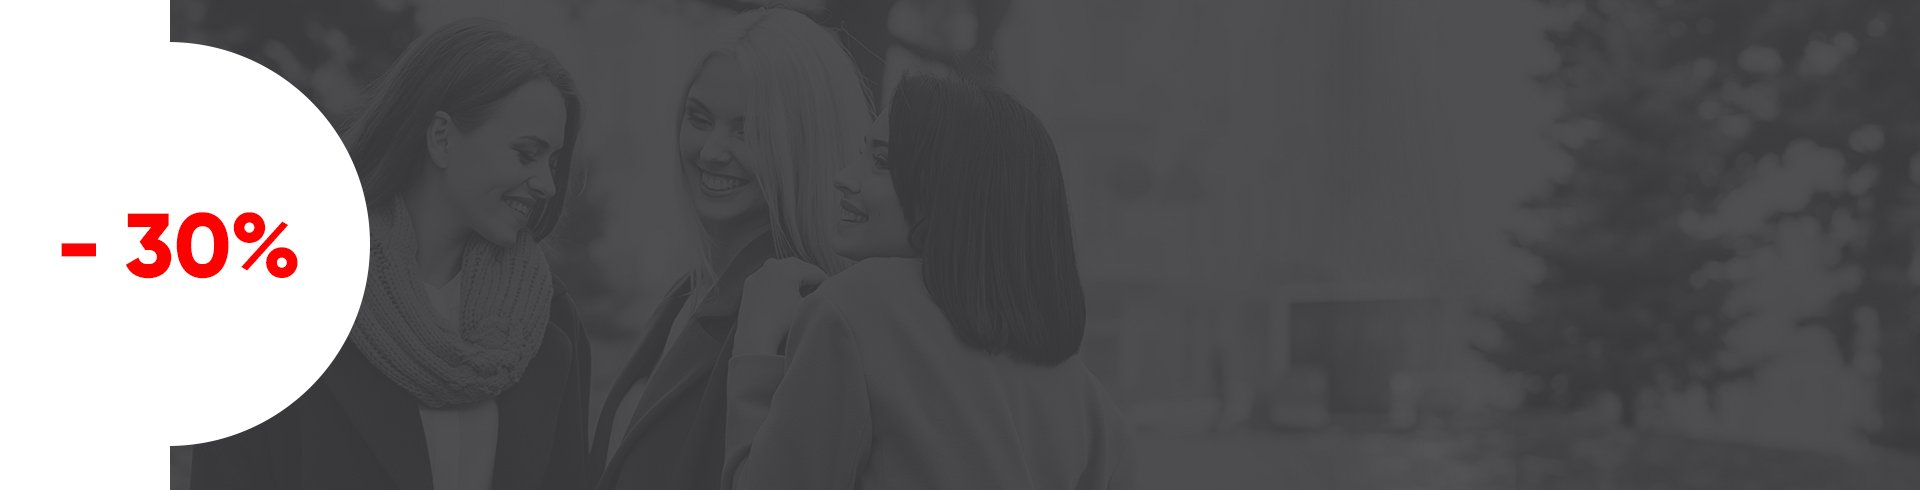
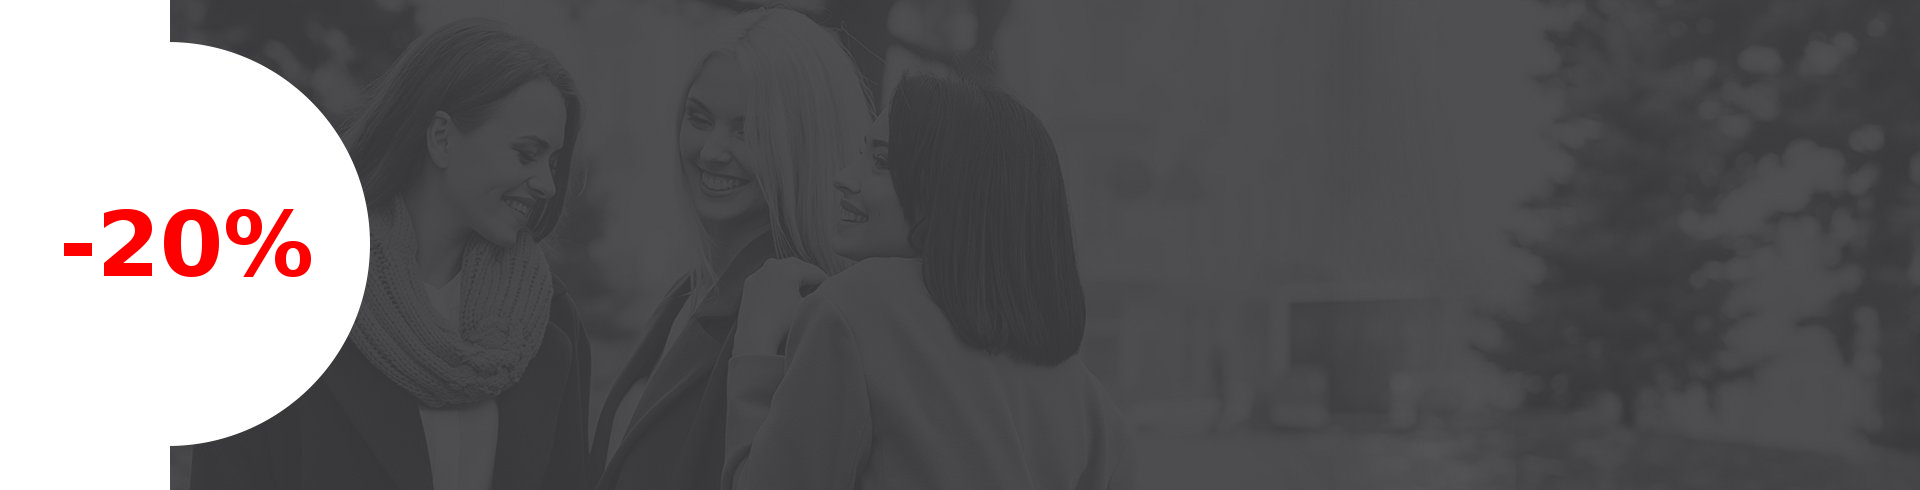
upd

Changed region(s): [[0.0312, 0.4286, 0.1875, 0.5816]]

diff --git a/src/components/header.vue b/src/components/header.vue
@@ -4,8 +4,8 @@
       <v-container fluid class="header">
         <v-layout class="LC" align-center>
           <v-flex sm10 lg5>
-            <h3>Успейте купить стильное весеннее пальто со скидкой до 20%</h3>
-            <p class="red--text offer">Акция действует до 08.03.2018</p>
+            <h3 class="shadow">Успейте купить стильное весеннее пальто со скидкой до 20%</h3>
+            <p class="offer">Акция действует до 08.03.2018</p>
           </v-flex>
         </v-layout>
         <div class="mouse"></div>
@@ -13,45 +13,40 @@
         <div class="mTwo"></div>
         <div class="mThree"></div>
       </v-container>
-      
-    <v-dialog v-model="drawer" max-width="350">
-      <app-catalog @closeForm="closeForm"></app-catalog>
-    </v-dialog>
     </div>
   </header>
 </template>
 
 <script>
-import catalog from './modals/getCatalog'
-  export default {
-    components: {
-      'app-catalog': catalog
-    },
-    data () {
-      return {
-        drawer: false,
-      }
-    },
-    methods: {
-      closeForm () {
-        this.drawer = false;
-      },
+import catalog from './modals/getCatalog';
+
+export default {
+  components: {
+    'app-catalog': catalog
+  },
+  data () {
+    return {
+      drawer: false,
     }
+  },
+  methods: {
+    closeForm () {
+      this.drawer = false;
+    },
   }
+}
 </script>
 
 <style scoped lang="stylus">
 .header
-  // background url('/static/img/header/1.png')
   background-image url('../assets/img/header/1.png')
   background-repeat no-repeat
   background-position-x right
   min-height 1000px
   position relative
-  h1
+  h3
     font-size responsive 3rem 4rem
   .mouse
-    // background-image url('/static/img/mouse.png')
     background-image url('../assets/img/mouse.png')
     position absolute
     left 17.3%
@@ -61,7 +56,6 @@ import catalog from './modals/getCatalog'
   .mOne
   .mTwo
   .mThree
-    // background-image url('/static/img/right.svg')
     background-image url('../assets/img/right.svg')
     width 20px
     height 20px
@@ -75,7 +69,7 @@ import catalog from './modals/getCatalog'
   .mThree
     bottom 13%
     opacity .3
-  h1
+  h3
     font-size responsive 3rem 4rem
     margin 1rem 0
   .LC
@@ -88,7 +82,7 @@ import catalog from './modals/getCatalog'
 
 @media (max-width: 1440px)
   .header
-    h1
+    h3
       font-size responsive 2.5rem 2.6rem
       text-align center
     p
@@ -100,13 +94,11 @@ import catalog from './modals/getCatalog'
 
 @media (max-width 1350px)
   .header
-    // background-image url('/static/img/header/2.png')
     background-image url('../assets/img/header/2.png')
     min-height 790px
 
 @media (max-width: 1280px)
   .header
-    // background-image url('/static/img/header/3.png')
     background-image url('../assets/img/header/3.png')
     color #fff
     background-size cover
@@ -116,14 +108,13 @@ import catalog from './modals/getCatalog'
 
 @media (max-width 600px)
   .header
-    // background-image url('/static/img/header/4.png')
     background-image url('../assets/img/header/4.png')
     background-size cover
     background-position center center
     min-height 630px
     .LC
       min-height 600px
-    h1
+    h3
       font-size 2rem
     .mouse
     .mOne

diff --git a/src/components/discount.vue b/src/components/discount.vue
@@ -4,9 +4,9 @@
       <v-layout class="LC" justify-end align-center>
           <div class="stockWrapper">
             <h3>Успей купить !</h3>
-            <p>Акция до 08.03 скидка 20% на всю верхнюю одежду от inDresser</p>
+            <p>Акция до 08.03 скидка 20% <br> на всю верхнюю одежду от inDresser</p>
             <v-layout justify-space-around class="buttonWrapper mt-4">
-              <div class="myButton Red" v-scroll-to="'.coats'">Перейти к покупкам</div>
+              <div class="myButton Red mx-2" v-scroll-to="'.coats'">Перейти к покупкам</div>
               <a href="https://indresser.com" target="_blank" class="myButton White">Перейти на сайт</a>
             </v-layout>
           </div>
@@ -15,39 +15,12 @@
   </div>
 </template>
 
-<script>
-import thanks from './modals/thanks';
-export default {
-  components: {
-    'app-thanks': thanks,
-  },
-  data() {
-    return {
-      userData: {
-        name: '',
-        phone: '',
-        email: ''
-      },
-      drawer: false,
-      isDisabled: true
-    };
-  },
-  methods: {
-    getCatalog () {
-      this.drawer = true;
-    },
-    closeForm () {
-      this.drawer = false;
-    },
-  }
-};
-</script>
 
 <style scoped lang="stylus">
 .discountForm
   background-image: url('../assets/img/formbg.jpg')
   .LC
-    min-height 450px
+    min-height 480px
     color #fff
 .stockWrapper
   h3

diff --git a/src/components/coats.vue b/src/components/coats.vue
@@ -2,11 +2,11 @@
   <div class="wrapper">
     <v-container fluid class="coat">
       <v-layout class="localWrapper">
-        <h2>Выбери свой Look</h2>
+        <h2 class="shadow">Выбери свой Look</h2>
       </v-layout>
       <v-layout class="localWrapper">
         <v-flex sm12 sm10 md8 lg6>
-          <p class="text-xs-center">На первом месте мы ставим качество и удобство. Женщина должна себя чувствовать в нем уверенно и комфортно, совершеннго не задумываясь все время о том, во что она одета...</p>
+          <p class="text-xs-center shadow">На первом месте мы ставим качество и удобство. Женщина должна себя чувствовать в нем уверенно и комфортно, совершеннго не задумываясь все время о том, во что она одета...</p>
         </v-flex>
       </v-layout>
     </v-container>
@@ -15,7 +15,6 @@
 
 <style scoped lang="stylus">
 .coat
-  // background-image url('/static/img/coatbg.jpg')
   background-image url('../assets/img/coatbg.jpg')
   min-height 490px
   .localWrapper

diff --git a/src/main.js b/src/main.js
@@ -1,4 +1,6 @@
 import Vue from 'vue';
+import Scroll from 'vue-scrollto';
+import axios from 'axios';
 import {
   Vuetify,
   VApp,
@@ -10,12 +12,11 @@ import {
   VTextField,
   VDialog,
   VSelect,
-  transitions
+  transitions,
 } from 'vuetify';
 import './stylus/main.styl';
 import '../static/css/font-awesome.min.css';
-import Scroll from 'vue-scrollto';
-import axios from 'axios';
+import './registerServiceWorker.js';
 
 import App from './App';
 
@@ -30,15 +31,15 @@ Vue.use(Vuetify, {
     VTextField,
     VDialog,
     VSelect,
-    transitions
-  }
+    transitions,
+  },
 });
 Vue.use(Scroll, {
   container: 'body',
   duration: 500,
   offset: -70,
   cancelable: true,
-  easing: 'ease'
+  easing: 'ease',
 });
 Vue.prototype.$http = axios;
 
@@ -47,5 +48,5 @@ Vue.config.productionTip = false;
 /* eslint-disable no-new */
 new Vue({
   el: '#app',
-  render: h => h(App)
+  render: h => h(App),
 });

diff --git a/index.html b/index.html
@@ -12,7 +12,7 @@
   <body>
     <div id="app"></div>
      <!-- built files will be auto injected  -->
-    <script async src="https://www.googletagmanager.com/gtag/js?id=UA-108801335-4"></script>
+    <!-- <script async src="https://www.googletagmanager.com/gtag/js?id=UA-108801335-4"></script>
     <script>
       window.dataLayer = window.dataLayer || [];
       function gtag() { dataLayer.push(arguments); }
@@ -25,7 +25,7 @@
           gcw.src = '//widgets.binotel.com/getcall/widgets/' + widgetHash + '.js';
           var sn = d.getElementsByTagName(s)[0]; sn.parentNode.insertBefore(gcw, sn);
         })(document, window, 'script');
-      </script> 
-      <script async src="/static/scripts/smtp.min.js"></script>
+      </script>  -->
+      <script defer async src="/static/scripts/smtp.min.js"></script>
   </body>
 </html>

diff --git a/src/registerServiceWorker.js b/src/registerServiceWorker.js
@@ -1,0 +1,26 @@
+/* tslint:disable:no-console */
+
+import { register } from 'register-service-worker';
+
+if (process.env.NODE_ENV === 'production') {
+  register(`${process.env.BASE_URL}service-worker.js`, {
+    ready() {
+      console.log(
+        'App is being served from cache by a service worker.\n' +
+          'For more details, visit https://goo.gl/AFskqB',
+      );
+    },
+    cached() {
+      console.log('Content has been cached for offline use.');
+    },
+    updated() {
+      console.log('New content is available; please refresh.');
+    },
+    offline() {
+      console.log('No internet connection found. App is running in offline mode.');
+    },
+    error(error) {
+      console.error('Error during service worker registration:', error);
+    },
+  });
+}

diff --git a/src/components/modals/stock.vue b/src/components/modals/stock.vue
@@ -1,7 +1,7 @@
 <template>
   <v-container fluid class="sContainer">
     <h2>Успей купить</h2>
-    <p>Акция до 30.11 скидка 30% на всю верхнюю одежду от inDresser</p>
+    <p>Акция до 08.03 скидка 20% на всю верхнюю одежду от inDresser</p>
     <div class="close" @click="close"></div>
     <div class="myButton mt-5" v-scroll-to="'.coats'" @click="close">Перейти к покупкам</div>
   </v-container>

diff --git a/src/components/category/shortCoats.vue b/src/components/category/shortCoats.vue
@@ -15,8 +15,8 @@
               <img :src="item" alt="coat">
             </slider-item>
           </slider>
-            <div class="oldPrice"><s>1890 грн</s></div>
-            <div class="newPrice">1323 грн</div>
+            <div class="oldPrice"><s>1790 грн</s></div>
+            <div class="newPrice">1343 грн</div>
             <div class="myButton" @click.stop="drawer = true">Купить</div>
         </v-flex>
       </v-layout>

diff --git a/src/components/category/jackets.vue b/src/components/category/jackets.vue
@@ -9,7 +9,7 @@
             </slider-item>
           </slider>
             <div class="oldPrice"><s>2190 грн</s></div>
-            <div class="newPrice">1533 грн</div>
+            <div class="newPrice">1862 грн</div>
             <div class="myButton" @click.stop="drawer = true">Купить</div>
         </v-flex>
         <v-flex xs12 sm12 md6 lg6>

diff --git a/src/components/category/coats.vue b/src/components/category/coats.vue
@@ -17,7 +17,7 @@
             </slider-item>
           </slider>
             <div class="oldPrice"><s>2790 грн</s></div>
-            <div class="newPrice">1953 грн</div>
+            <div class="newPrice">2093 грн</div>
             <div class="myButton" @click.stop="drawer = true">Купить</div>
         </v-flex>
       </v-layout>

diff --git a/src/components/catalog.vue b/src/components/catalog.vue
@@ -9,9 +9,6 @@
         <!-- <div class="myButton" @click.stop="drawer = true">Заказать каталог</div> -->
       </v-layout>
     </v-container>
-    <v-dialog v-model="drawer" max-width="350">
-      <app-catalog @closeForm="closeForm"></app-catalog>
-    </v-dialog>
   </div>
 </template>
 

diff --git a/src/components/footer.vue b/src/components/footer.vue
@@ -100,4 +100,6 @@ ul
 //   .footerMenu
 //   .phone
 //     width 40vh
+
+
 </style>
